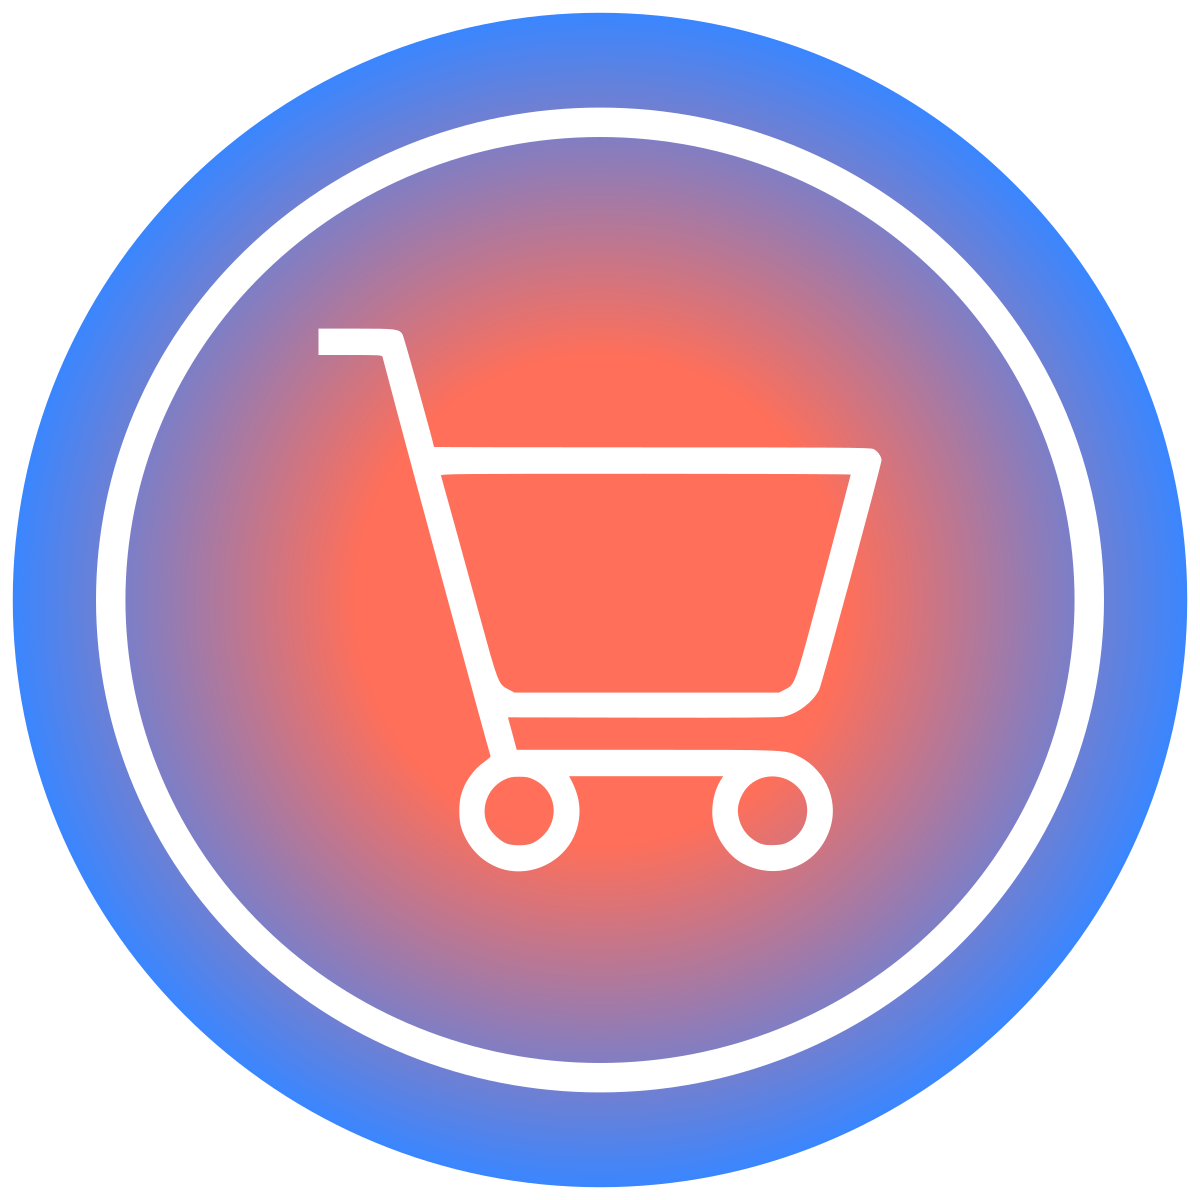
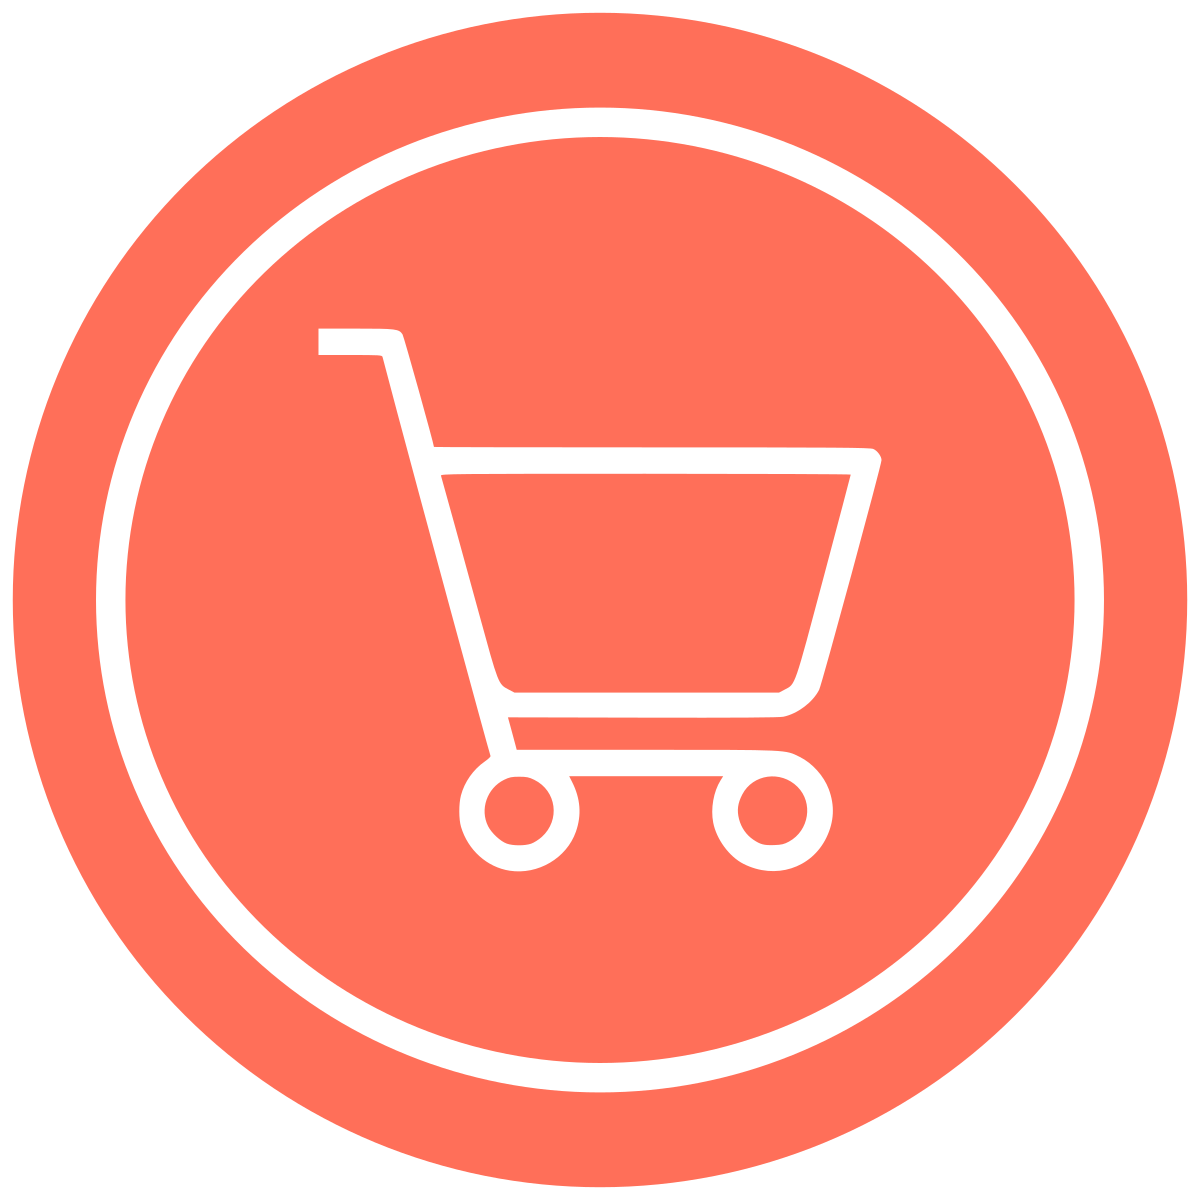
refactors

diff --git a/app/Main/_layout.js b/app/Main/_layout.js
@@ -1,114 +1,30 @@
 import { Drawer } from 'expo-router/drawer';
-import {DrawerToggleButton} from "@react-navigation/drawer";
-import LogoIconWithName from "../../components/LogoIconWithName";
-import {Stack, usePathname, useRouter} from "expo-router";
-import {Text} from 'react-native-paper';
-import {getFocusedRouteNameFromRoute} from "@react-navigation/core";
+import {usePathname} from "expo-router";
 import DrawerMenu from "../../components/DrawerMenu";
 import AppHeader from "../../components/AppHeader";
 
 export default function Layout() {
 
-    const router = useRouter();
     const pathName = usePathname();
 
     return <Drawer initialRouteName={'(tabs)'} backBehavior={'history'} screenOptions={({route}) =>  ({
         drawerPosition: 'right',
         drawerType: 'front',
-        // headerRight: () => <DrawerToggleButton/>,
-        // headerLeft: () => <KadaiLogo/>,
         headerShadowVisible: true,
         headerTitle: '',
-        // headerStyle: {height: 60, backgroundColor: 'red'},
-        drawerStyle: { borderTopLeftRadius: 0, borderBottomLeftRadius: 0, borderTopRightRadius: 0, borderBottomRightRadius: 0},
+        contentContainerStyle: {flex: 1, height: '100%'},
+        drawerContentStyle:{ flex: 1, height: '100%'},
+        drawerContentContainerStyle: {
+            flex: 1,
+            height: '100%', // Ensure full height
+        },
+        sceneContainerStyle: { flex: 1, height: '100%' },
+        drawerStyle: {flex: 1, height: '100%', width: '70%', borderTopLeftRadius: 0, borderBottomLeftRadius: 0, borderTopRightRadius: 0, borderBottomRightRadius: 0},
         header: () => {
             console.log('pathName:', pathName);
             return pathName.startsWith('/Main/AddNewProduct') ? null : <AppHeader/>
         }
-        // headerLeft: () => {
-        //     if (pathName.startsWith('/Main/StoreFront/Collections/Collection/')) {
-        //         return <View style={{display: 'flex', flexDirection: 'row', alignItems: 'center'}}>
-        //             <Pressable onPress={router.back}>
-        //                 <MaterialIcons name={'arrow-back'} size={36} style={{margin: 10}}/>
-        //             </Pressable>
-        //             <Text variant={'titleLarge'} style={{marginLeft: 15}} >Collection</Text>
-        //         </View>
-        //     } else if (pathName.startsWith('/Main/StoreFront/Products/Product/')) {
-        //         return <View style={{display: 'flex', flexDirection: 'row', alignItems: 'center'}}>
-        //             <Pressable onPress={router.back} style={{margin: 10}}>
-        //                 <MaterialIcons name={'arrow-back'} size={36}/>
-        //             </Pressable>
-        //             <Text variant={'titleLarge'} style={{marginLeft: 15}}>Product</Text>
-        //         </View>
-        //     } else if (pathName==='/Main/StoreFront/Products') {
-        //         return <View style={{display: 'flex', flexDirection: 'row', alignItems: 'center'}}>
-        //             <Pressable onPress={router.back} style={{margin: 10}}>
-        //                 <MaterialIcons name={'arrow-back'} size={36}/>
-        //             </Pressable>
-        //             <Text variant={'titleLarge'} style={{marginLeft: 15}}>Products</Text>
-        //         </View>
-        //     } else if (pathName==='/Main/StoreFront/Collections') {
-        //         return <View style={{display: 'flex', flexDirection: 'row', alignItems: 'center'}}>
-        //             <Pressable onPress={router.back} style={{margin: 10}}>
-        //                 <MaterialIcons name={'arrow-back'} size={36}/>
-        //             </Pressable>
-        //             <Text variant={'titleLarge'} style={{marginLeft: 15}}>Collections</Text>
-        //         </View>
-        //     } else
-        //     {
-        //         return <KadaiLogo/>
-        //     }
-        //
-        // },
     })}
     drawerContent={(props) => <DrawerMenu {...props}/>}>
-        {/*<Drawer.Screen*/}
-        {/*    name="LandingPage" // This is the name of the page and must match the url from root*/}
-        {/*    options={{*/}
-        {/*        drawerLabel: 'StoreFront',*/}
-        {/*    }}*/}
-        {/*/>*/}
-        {/*<Drawer.Screen*/}
-        {/*    name="Products" // This is the name of the page and must match the url from root*/}
-        {/*    options={{*/}
-        {/*        drawerLabel: 'Products',*/}
-        {/*    }}*/}
-        {/*/>*/}
-        {/*<Drawer.Screen*/}
-        {/*    name="Collections" // This is the name of the page and must match the url from root*/}
-        {/*    options={{*/}
-        {/*        drawerLabel: 'Collections',*/}
-        {/*    }}*/}
-        {/*/>*/}
-        {/*<Drawer.Screen*/}
-        {/*    name="Collection/[collectionId]" // This is the name of the page and must match the url from root*/}
-        {/*    options={{*/}
-        {/*        drawerLabel: () => null,*/}
-        {/*    }}*/}
-        {/*/>*/}
-        {/*<Drawer.Screen*/}
-        {/*    name="Orders" // This is the name of the page and must match the url from root*/}
-        {/*    options={{*/}
-        {/*        drawerLabel: 'Orders',*/}
-        {/*    }}*/}
-        {/*/>*/}
-        {/*<Drawer.Screen*/}
-        {/*    name="Customers" // This is the name of the page and must match the url from root*/}
-        {/*    options={{*/}
-        {/*        drawerLabel: 'Customers',*/}
-        {/*    }}*/}
-        {/*/>*/}
-        {/*<Drawer.Screen*/}
-        {/*    name="Offers" // This is the name of the page and must match the url from root*/}
-        {/*    options={{*/}
-        {/*        drawerLabel: 'Offers',*/}
-        {/*    }}*/}
-        {/*/>*/}
-        {/*<Drawer.Screen*/}
-        {/*    name="Settings" // This is the name of the page and must match the url from root*/}
-        {/*    options={{*/}
-        {/*        drawerLabel: 'Settings',*/}
-        {/*    }}*/}
-        {/*/>*/}
     </Drawer>
 }

diff --git a/app/_layout.tsx b/app/_layout.tsx
@@ -1,27 +1,17 @@
 import {Stack} from "expo-router";
 import {PaperProvider} from "react-native-paper";
-import {SafeAreaProvider, useSafeAreaInsets} from "react-native-safe-area-context";
-import {View} from "react-native";
+import {SafeAreaProvider} from "react-native-safe-area-context";
+import {Platform, View} from "react-native";
 import {StatusBar} from "expo-status-bar";
-import * as NavigationBar from 'expo-navigation-bar';
 import {useEffect} from "react";
 import {GestureHandlerRootView} from "react-native-gesture-handler";
 import {DefaultTheme} from 'react-native-paper';
 import {Provider} from "react-redux";
 import {store} from "@/store/store";
-import {SafeAreaView} from "react-native-safe-area-context";
+import * as NavigationBar from 'expo-navigation-bar';
 
-// const Tabs = createBottomTabNavigator();
 const isLoggedIn = true;
 export default function RootLayout() {
-
-    const insets = useSafeAreaInsets();
-
-    useEffect(() => {
-        (async () => {
-            await NavigationBar.setBackgroundColorAsync("white")
-        })();
-    }, [])
 
     const customTheme = {
         ...DefaultTheme, colors: {
@@ -40,16 +30,21 @@ export default function RootLayout() {
         }, dark: false, // Set to true if creating a dark theme
     };
 
+    useEffect(() => {
+        // Make navigation bar transparent
+        if (Platform.OS==='android') {
+            NavigationBar.setBackgroundColorAsync('transparent');
+        }
+    }, []);
+
     return (
 
         <SafeAreaProvider>
-            <GestureHandlerRootView style={{flex: 1}}>
+            <GestureHandlerRootView style={{flex: 1, backgroundColor: 'green'}}>
                 <Provider store={store}>
                     <PaperProvider theme={customTheme}>
-                        <SafeAreaView style={{flex: 1, backgroundColor: 'white'}} edges={['top']} mode={'padding'}>
                             <StatusBar style="dark"/>
-                                <Stack screenOptions={{header: () => null, headerStyle: {backgroundColor: 'red'}}}/>
-                        </SafeAreaView>
+                            <Stack screenOptions={{header: () => null}}/>
                     </PaperProvider>
                 </Provider>
             </GestureHandlerRootView>

diff --git a/components/AppHeader.js b/components/AppHeader.js
@@ -1,25 +1,17 @@
 import {View, Text, Pressable} from "react-native";
-import {Image} from 'expo-image';
-import {Colors} from "@/styles/Colors";
 import MaterialIcons from "@expo/vector-icons/MaterialIcons";
-// import { ReactComponent as Logo } from '../assets/images/kadailogo.svg';
-import { useFonts } from 'expo-font';
 import LogoIconWithName from './LogoIconWithName';
 import {DrawerActions} from "@react-navigation/native";
 import {useNavigation} from "expo-router";
 import {useTheme} from "react-native-paper";
+import {useSafeAreaInsets} from "react-native-safe-area-context";
 export default function AppHeader (props)  {
 
     const navigation = useNavigation();
     const theme = useTheme();
-    // const [loaded, error] = useFonts({
-    //     'CaveatBrush-Regular': require('../assets/fonts/CaveatBrush-Regular.ttf'),
-    // });
-    // console.log('loaded:', loaded);
-    // console.log('error:', error);
+    const insets = useSafeAreaInsets();
 
-
-    return <View style={{height: 60, backgroundColor: 'white', display: 'flex', flexDirection:'row', alignItems: 'center', justifyContent: 'space-between'}}>
+    return <View style={{height: 60+ insets.top, paddingTop: insets.top, backgroundColor: 'white', display: 'flex', flexDirection:'row', alignItems: 'center', justifyContent: 'space-between'}}>
         <LogoIconWithName/>
         <Pressable onPress={() => navigation.dispatch(DrawerActions.toggleDrawer()) }>
             <View style={{ width: 40, height: 40, margin: 10, display: 'flex', justifyContent: 'center', alignItems: 'center'}}>

diff --git a/components/DrawerMenu.js b/components/DrawerMenu.js
@@ -8,14 +8,14 @@ import MaterialIcons from "@expo/vector-icons/MaterialIcons";
 import {View} from "react-native";
 import {StoreLogo} from "@/components/StoreLogo";
 import {faker} from '@faker-js/faker';
+import {useSafeAreaInsets} from "react-native-safe-area-context";
 
 export default function DrawerMenu(props) {
     const router = useRouter();
     const storeLogoImage = faker.image.url();
 
     // console.log('props:', JSON.stringify(props));
-    return (
-        <DrawerContentScrollView {...props}>
+    return (<DrawerContentScrollView {...props} contentContainerStyle={{ flex: 1, height: '100%'}}>
             <View style={{display: 'flex', flexDirection: 'row', alignItems: 'center', marginBottom: 15}}>
                 <StoreLogo logoImage={storeLogoImage} size={40}/>
                 <Text variant={'displaySmall'} style={{marginLeft: 15}}>Store Name</Text>

diff --git a/components/MediaGallery.js b/components/MediaGallery.js
@@ -496,8 +496,8 @@ const  MediaGallery = (props) => {
                                 indicatorActiveColor='#3498db'
                                 indicatorInActiveColor='#bdc3c7'
                                 indicatorActiveWidth={6}
-                                contentContainerStyle={{backgroundColor: 'blue'}}
-                                flatListWrapperStyle={{backgroundColor: 'orange'}}
+                                contentContainerStyle={{backgroundColor: 'black'}}
+                                flatListWrapperStyle={{backgroundColor: 'black'}}
                                 allowPanZoom={true}
                                 component = {<MediaItem />}
                 />

diff --git a/components/LogoIconWithName.js b/components/LogoIconWithName.js
@@ -12,7 +12,7 @@ export default function LogoIconWithName() {
         Atma_600SemiBold,
     });
     return <View style={{height: 58, backgroundColor: 'white', top: 0, display: 'flex', flexDirection: 'row', alignItems: 'center', justifyContent: 'flex-start',}}>
-        <Image source={require('../assets/images/PocketShopIcon.svg')} style={{width:50, height: 50, margin: 5}}/>
+        <Image source={require('../assets/images/PocketShopIcon.png')} style={{width:50, height: 50, margin: 5}}/>
         <Text style={{fontFamily: Platform.select({
                 android: 'Atma_600SemiBold',
                 ios: 'Atma-SemiBold',

diff --git a/app/Main/(tabs)/_layout.js b/app/Main/(tabs)/_layout.js
@@ -1,11 +1,9 @@
-import {Tabs, useRouter} from "expo-router";
+import {Tabs} from "expo-router";
 import React from "react";
 import MaterialIcons from "@expo/vector-icons/MaterialIcons";
-import {TouchableOpacity, View, Text, SafeAreaView} from "react-native";
-import {Colors} from '@/styles/Colors';
-import AppHeader from '../../../components/AppHeader';
+import {TouchableOpacity} from "react-native";
 import {useTheme} from "react-native-paper";
-import {useDispatch, useSelector} from "react-redux";
+
 export default function TabsComponent() {
 
     const theme = useTheme();
